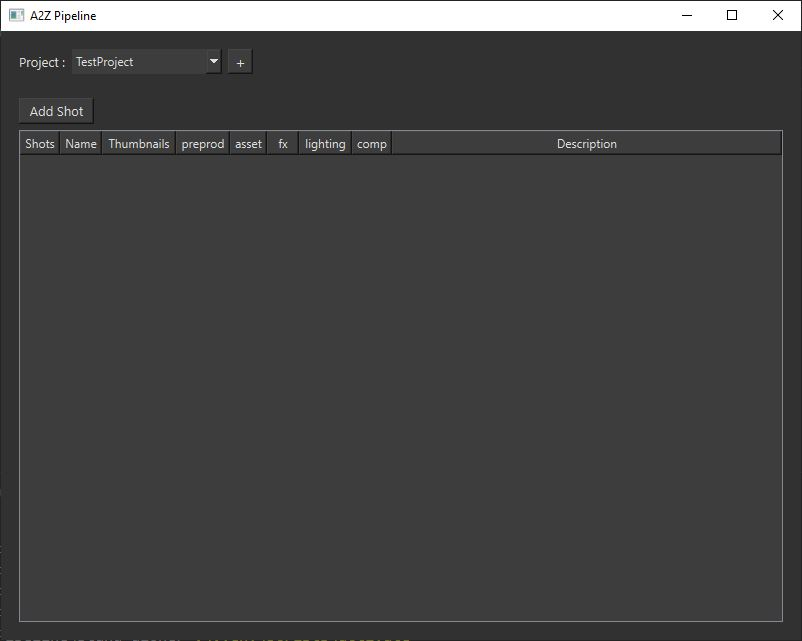
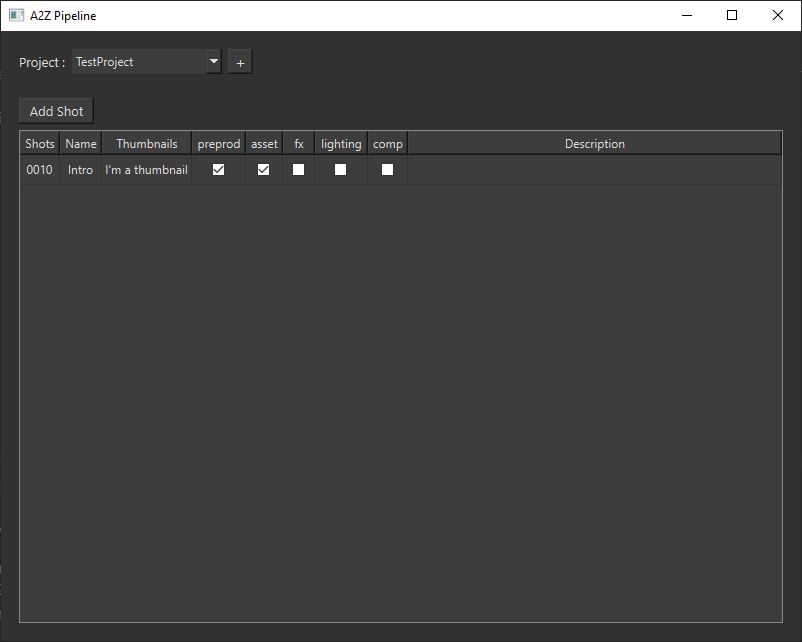
standalone readme

diff --git a/README.md b/README.md
@@ -1,7 +1,9 @@
 # A2Z Pipeline for VFX Production
 
-**A2Z Pipeline** is a pipeline tool that can be used to manage files and directories directly from VFX software such as **Maya**, **Mari** or **Nuke** or via the **standalone** app.
+**A2Z Pipeline** is a pipeline tool that can be used to manage files and directories directly from VFX software such as **Maya**, **Mari** or **Nuke** or via the **Standalone** app.
 
 ## StandAlone App
+
+Using the **Standalone** app, you can create a new **project** using the **+** button, you can add shots to the selected project, name it, give a number and then check the departments that are done.
 
 ![Standalone Application](./assets/readme/standalone.jpg)
